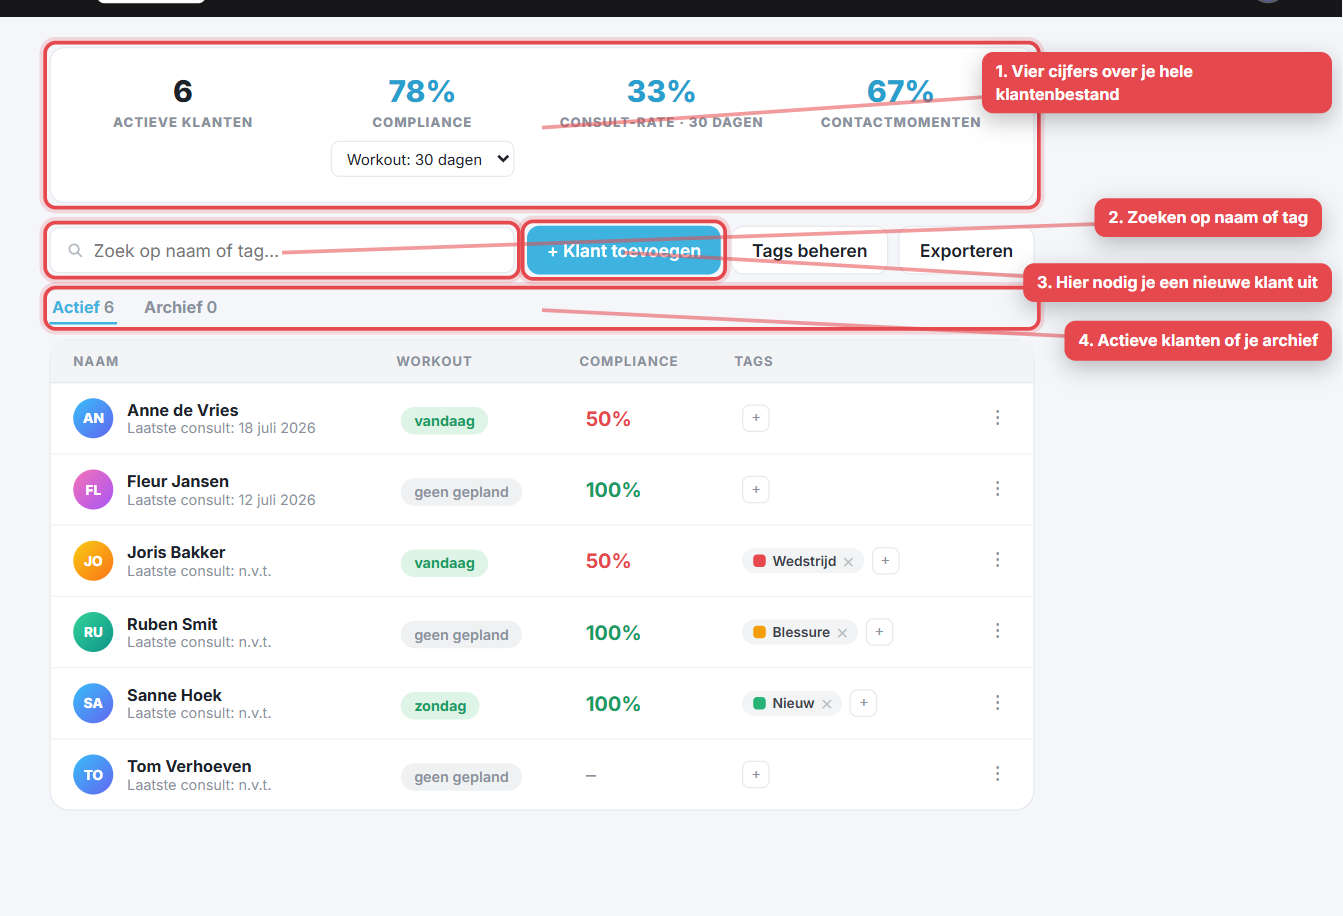
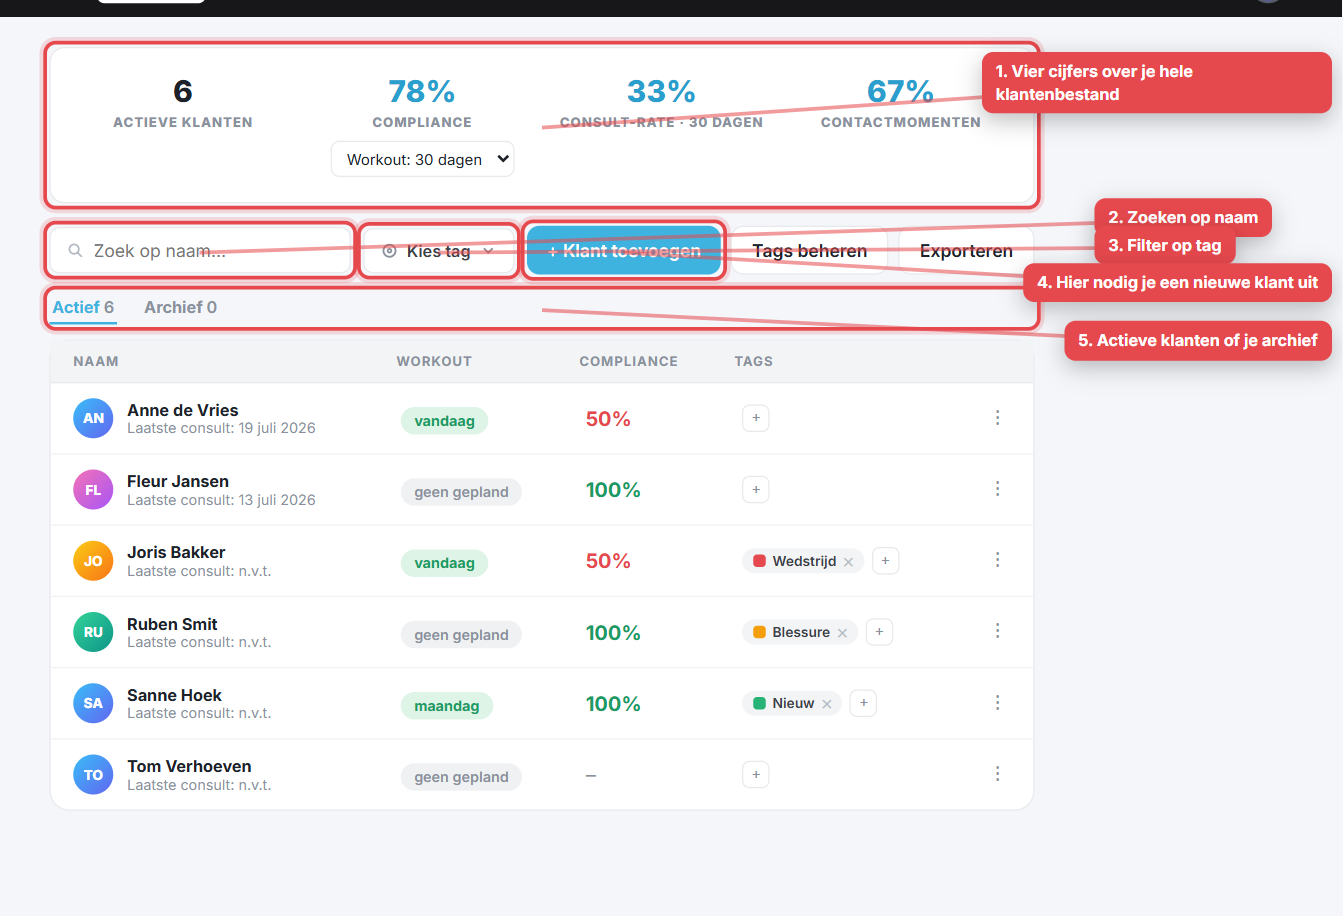
Klanten: zoeken op naam, en een tag-kiezer om op tags te filteren
Het zoekveld gaat nu alleen over de naam (en het mailadres). Ernaast staat
"Kies tag": een uitklaplijst met de tags die er zijn, met een vinkje bij de
tags die aanstaan. Elke gekozen tag komt als chip onder de zoekbalk te
staan en gaat er met het kruisje weer af. Meerdere tags mag: je ziet dan
iedereen die een van die tags heeft, met een teller erachter. Een nieuwe
tag (via de + bij een klant of via Tags beheren) staat meteen in de lijst,
want die komt elke keer uit KDATA.alleTags.

Het afstrepen tijdens programmeren werkt zoals eerst, zodra er minstens
een tag aanstaat. Handleiding-tekst en de screenshot van de klantenlijst
zijn meegegaan.

diff --git a/app/klanten.js b/app/klanten.js
@@ -2,11 +2,21 @@
 // Klanten, Coaches en Bedrijven, plus de uitnodigingsflow (invites).
 // ---------- KLANTEN-pagina (naar het ontwerp) ----------
 let KDATA=null,klantPeriode=30,klantZoek="",klantCoachFilter=null,klantCoachNaam="",klantArchief=false;
-// Tag-filter op de lijst (klik op een tag) + afstreep-lijstje voor het
-// programmeren (verzoek Stefan 22 juli): vink klanten af terwijl je ze
-// programmeert; geldt zolang de pagina open staat.
-let klantTagSel=null,klantAf=new Set();
-function klantTagFilterKies(id){klantTagSel=id||null;if(!id)klantAf.clear();klantenRender();}
+// Tag-filter op de lijst + afstreep-lijstje voor het programmeren (verzoek
+// Stefan 22 juli): vink klanten af terwijl je ze programmeert; geldt zolang de
+// pagina open staat. Sinds 25 juli kun je op meerdere tags tegelijk filteren
+// (verzoek Stefan): kiezen doe je met de tag-kiezer naast het zoekveld, de
+// gekozen tags staan als chips daaronder. Een klant hoort erbij als hij één
+// van de gekozen tags heeft.
+let klantTags=new Set(),klantAf=new Set();
+const klantTagAan=()=>klantTags.size>0;
+function klantTagFilterKies(id){
+  if(!id){klantTags.clear();klantAf.clear();klantenRender();return;}
+  if(klantTags.has(id))klantTags.delete(id);else klantTags.add(id);
+  if(!klantTags.size)klantAf.clear();
+  klantTagDropWeg();klantenRender();
+}
+function klantTagFilterWeg(id){klantTags.delete(id);if(!klantTags.size)klantAf.clear();klantenRender();}
 // Tagkleur: een van de zes vaste kleurnamen óf een vrije hexkleur (#..)
 function tagKleur(c){return /^#/.test(c||"")?c:(TPLKLEUR[c]||TPLKLEUR.blue);}
 function klantAfToggle(pid){if(klantAf.has(pid))klantAf.delete(pid);else klantAf.add(pid);klantenRender();}
@@ -59,19 +69,19 @@ function klantComp(list){
 }
 function klantRijen(){
   const zoek=klantZoek.toLowerCase();
+  // Het zoekveld gaat over de naam (en het mailadres); op tags filter je met de
+  // tag-kiezer ernaast.
   let lijst=klantLijst().filter(p=>{
     if(!zoek)return true;
-    if(naamVan(p).toLowerCase().includes(zoek)||(p.email||"").toLowerCase().includes(zoek))return true;
-    // Ook zoeken op tagnaam (de placeholder belooft het al)
-    return (KDATA.tagsByClient[p.id]||[]).map(id=>tagById(id)).filter(Boolean).some(t=>(t.name||"").toLowerCase().includes(zoek));
+    return naamVan(p).toLowerCase().includes(zoek)||(p.email||"").toLowerCase().includes(zoek);
   }).sort((a,b)=>naamVan(a).localeCompare(naamVan(b)));
-  if(klantTagSel)lijst=lijst.filter(p=>(KDATA.tagsByClient[p.id]||[]).includes(klantTagSel));
+  if(klantTagAan())lijst=lijst.filter(p=>(KDATA.tagsByClient[p.id]||[]).some(id=>klantTags.has(id)));
   // Afgestreepte klanten zakken naar onderen tijdens het programmeren
-  if(klantTagSel)lijst=lijst.slice().sort((a,b)=>(klantAf.has(a.id)?1:0)-(klantAf.has(b.id)?1:0)||naamVan(a).localeCompare(naamVan(b)));
+  if(klantTagAan())lijst=lijst.slice().sort((a,b)=>(klantAf.has(a.id)?1:0)-(klantAf.has(b.id)?1:0)||naamVan(a).localeCompare(naamVan(b)));
   return lijst.map(p=>{
     const wp=klantComp([p]);
-    const af=klantTagSel&&klantAf.has(p.id);
-    const afBtn=klantTagSel?'<button class="afvink'+(af?" aan":"")+'" title="'+(af?"Terugzetten in het lijstje":"Afstrepen: klaar met programmeren")+'" onclick="event.stopPropagation();klantAfToggle(\''+p.id+'\')">'+(af?"✓":"")+'</button>':'';
+    const af=klantTagAan()&&klantAf.has(p.id);
+    const afBtn=klantTagAan()?'<button class="afvink'+(af?" aan":"")+'" title="'+(af?"Terugzetten in het lijstje":"Afstrepen: klaar met programmeren")+'" onclick="event.stopPropagation();klantAfToggle(\''+p.id+'\')">'+(af?"✓":"")+'</button>':'';
     // Label voor klanten die hun uitnodiging nog niet hebben geaccepteerd
     // (account bestaat al, programmeren kan gewoon).
     let pend="";
@@ -107,10 +117,11 @@ function klantenRender(){
     '<div><div class="n acc">'+(crTot==null?'–':crTot+'%')+'</div><div class="l">Consult-rate · 30 dagen</div></div>'+
     '<div><div class="n acc">'+(cmTot==null?'–':cmTot+'%')+'</div><div class="l">Contactmomenten</div></div></div>'+
     '<div style="display:flex;gap:10px;align-items:center;margin-bottom:14px;flex-wrap:wrap">'+
-      '<div class="search2"><svg class="i sm-i"><use href="#i-search"/></svg><input placeholder="Zoek op naam of tag…" value="'+esc(klantZoek)+'" oninput="klantZoekF(this.value)"></div>'+
+      '<div class="search2" style="max-width:360px"><svg class="i sm-i"><use href="#i-search"/></svg><input placeholder="Zoek op naam…" value="'+esc(klantZoek)+'" oninput="klantZoekF(this.value)"></div>'+
+      klantTagKiezerHtml()+
       '<div style="margin-left:auto;display:flex;gap:8px"><button class="btn" onclick="openInvModal(\'lid\')">+ Klant toevoegen</button><button class="btn ghost" onclick="openTagBeheer()">Tags beheren</button><button class="btn ghost" onclick="exportKlanten()">Exporteren</button></div></div>'+
-    '<div class="ctabs"><button class="'+(klantArchief?'':'on')+'" onclick="klantTab(false)">Actief <span style="font-weight:600;color:#8a919c">'+actief.length+'</span></button><button class="'+(klantArchief?'on':'')+'" onclick="klantTab(true)">Archief <span style="font-weight:600;color:#8a919c">'+archief.length+'</span></button></div>'+
     klantTagBanner()+
+    '<div class="ctabs"><button class="'+(klantArchief?'':'on')+'" onclick="klantTab(false)">Actief <span style="font-weight:600;color:#8a919c">'+actief.length+'</span></button><button class="'+(klantArchief?'on':'')+'" onclick="klantTab(true)">Archief <span style="font-weight:600;color:#8a919c">'+archief.length+'</span></button></div>'+
     '<div class="card"><div class="thead"><div style="flex:2.2">Naam</div><div style="flex:1.2">Workout</div><div style="flex:1">Compliance</div><div style="flex:1.6">Tags</div><div style="width:30px"></div></div>'+
     '<div id="klantrows">'+(klantRijen()||'<div class="trow"><span class="muted">'+(klantArchief?'Geen gearchiveerde klanten.':'Nog geen klanten gekoppeld.')+'</span></div>')+'</div></div>';
 }
@@ -213,21 +224,53 @@ async function doExport(){
 function tagById(id){return (KDATA.alleTags||[]).find(t=>t.id===id);}
 // Actieve tag-filter als balkje boven de lijst: tag met kruisje (uitzetten)
 // en de afstreep-teller voor het programmeren.
+// De tag-kiezer naast het zoekveld: uitklaplijst met de tags die er zijn.
+// Nieuwe tags (via de + bij een klant of via Tags beheren) staan er meteen
+// tussen, want de lijst komt elke keer uit KDATA.alleTags.
+function klantTagKiezerHtml(){
+  const n=klantTags.size;
+  return '<div class="tagkies">'+
+    '<button class="tagkiesbtn'+(n?" aan":"")+'" onclick="klantTagDropToggle(event)">'+
+      '<svg class="i sm-i"><use href="#i-target"/></svg> '+(n?n+(n===1?" tag":" tags"):"Kies tag")+
+      '<svg class="i sm-i"><use href="#i-chev"/></svg></button></div>';
+}
+function klantTagDropWeg(){document.querySelectorAll(".tagkies .tagdrop").forEach(x=>x.remove());}
+function klantTagDropToggle(ev){
+  ev.stopPropagation();
+  const wrap=ev.target.closest(".tagkies");if(!wrap)return;
+  const bestond=wrap.querySelector(".tagdrop");
+  document.querySelectorAll(".tagdrop").forEach(x=>x.remove());
+  if(bestond)return;
+  const d=document.createElement("div");d.className="tagdrop";
+  d.innerHTML='<div class="hd">Filter op tag</div>'+
+    ((KDATA.alleTags||[]).map(t=>'<button class="tagopt" onclick="event.stopPropagation();klantTagFilterKies(\''+t.id+'\')">'+
+      '<span class="kdot" style="background:'+(tagKleur(t.color))+'"></span><span style="flex:1">'+esc(t.name)+'</span>'+
+      (klantTags.has(t.id)?'<span class="vk">✓</span>':'')+'</button>').join("")
+      ||'<div class="leeg">Nog geen tags. Maak er een via de + achter een klant of via Tags beheren.</div>')+
+    (klantTags.size?'<button class="tagopt" style="color:#e5484d" onclick="event.stopPropagation();klantTagFilterKies(null)">Filter wissen</button>':'');
+  wrap.appendChild(d);
+}
+document.addEventListener("click",e=>{if(!e.target.closest(".tagkies"))klantTagDropWeg();});
+
+// De gekozen tags als chips onder de zoekbalk, met een kruisje per tag,
+// plus de afstreep-teller voor het programmeren.
 function klantTagBanner(){
-  if(!klantTagSel)return "";
-  const t=tagById(klantTagSel);
-  if(!t){klantTagSel=null;return "";}
-  const inFilter=klantLijst().filter(p=>(KDATA.tagsByClient[p.id]||[]).includes(klantTagSel));
+  // Tags die intussen verwijderd zijn stil laten vallen
+  [...klantTags].forEach(id=>{if(!tagById(id))klantTags.delete(id);});
+  if(!klantTags.size)return "";
+  const gekozen=[...klantTags].map(id=>tagById(id)).filter(Boolean);
+  const inFilter=klantLijst().filter(p=>(KDATA.tagsByClient[p.id]||[]).some(id=>klantTags.has(id)));
   const afN=inFilter.filter(p=>klantAf.has(p.id)).length;
-  return '<div style="display:flex;align-items:center;gap:12px;margin:0 0 10px;flex-wrap:wrap">'+
-    '<span class="ktag" style="font-size:12px;padding:5px 12px"><span class="kdot" style="background:'+(tagKleur(t.color))+'"></span>'+esc(t.name)+' <span class="x" title="Filter uitzetten" onclick="klantTagFilterKies(null)">✕</span></span>'+
-    '<span class="sm muted">'+inFilter.length+(inFilter.length===1?" klant":" klanten")+' · '+afN+' afgestreept</span>'+
+  const chips=gekozen.map(t=>'<span class="ktag" style="font-size:12px;padding:5px 12px"><span class="kdot" style="background:'+(tagKleur(t.color))+'"></span>'+esc(t.name)+' <span class="x" title="Deze tag uit het filter halen" onclick="klantTagFilterWeg(\''+t.id+'\')">✕</span></span>').join("");
+  return '<div style="display:flex;align-items:center;gap:10px;margin:0 0 10px;flex-wrap:wrap">'+chips+
+    '<span class="sm muted">'+inFilter.length+(inFilter.length===1?" klant":" klanten")+(gekozen.length>1?" met een van deze tags":"")+' · '+afN+' afgestreept</span>'+
     (afN?'<a style="color:var(--accent);cursor:pointer;font-weight:700;font-size:12px" onclick="klantAfReset()">Afstrepen wissen</a>':'')+
+    (gekozen.length>1?'<a style="color:#8a919c;cursor:pointer;font-weight:700;font-size:12px" onclick="klantTagFilterKies(null)">Alles wissen</a>':'')+
   '</div>';
 }
 function klantTagCel(p){
   const chips=(KDATA.tagsByClient[p.id]||[]).map(id=>tagById(id)).filter(Boolean)
-    .map(t=>'<span class="ktag'+(klantTagSel===t.id?" aan":"")+'"><span style="cursor:pointer;display:inline-flex;align-items:center;gap:5px" title="Filter de lijst op deze tag" onclick="event.stopPropagation();klantTagFilterKies(\''+t.id+'\')"><span class="kdot" style="background:'+(tagKleur(t.color))+'"></span>'+esc(t.name)+'</span> <span class="x" title="Tag weghalen bij deze klant" onclick="event.stopPropagation();tagToggleKlant(\''+p.id+'\',\''+t.id+'\')">✕</span></span>').join("");
+    .map(t=>'<span class="ktag'+(klantTags.has(t.id)?" aan":"")+'"><span style="cursor:pointer;display:inline-flex;align-items:center;gap:5px" title="Filter de lijst op deze tag" onclick="event.stopPropagation();klantTagFilterKies(\''+t.id+'\')"><span class="kdot" style="background:'+(tagKleur(t.color))+'"></span>'+esc(t.name)+'</span> <span class="x" title="Tag weghalen bij deze klant" onclick="event.stopPropagation();tagToggleKlant(\''+p.id+'\',\''+t.id+'\')">✕</span></span>').join("");
   return '<div class="ktagcel">'+chips+'<button class="plusbtn" title="Tag toevoegen" onclick="event.stopPropagation();openTagPicker(event,\''+p.id+'\')">+</button></div>';
 }
 function openTagPicker(ev,clientId){

diff --git a/app/help.js b/app/help.js
@@ -41,13 +41,13 @@ const HELP_HOOFDSTUKKEN=[
     stappen:[
       {titel:"De klantenlijst",
        img:"img/help/klanten-01-overzicht.png",
-       tekst:"Bovenin staan vier cijfers over je hele klantenbestand: hoeveel actieve klanten je hebt, de gemiddelde compliance (met een keuzelijst voor de periode), de consult-rate over 30 dagen en hoeveel klanten je deze week gesproken hebt. Daaronder het zoekveld en de knoppen. In de tabel zie je per klant zijn eerstvolgende of gemiste workout, zijn compliance en zijn tags. Klik op een rij om de klant te openen."},
+       tekst:"1 vier cijfers over je hele klantenbestand: hoeveel actieve klanten je hebt, de gemiddelde compliance (met een keuzelijst voor de periode), de consult-rate over 30 dagen en hoeveel klanten je deze week gesproken hebt. 2 het zoekveld gaat over de naam. 3 met Kies tag filter je de lijst op een of meer tags. 4 hier nodig je een nieuwe klant uit. 5 schakel tussen je actieve klanten en je archief. In de tabel staat per klant zijn eerstvolgende of gemiste workout, zijn compliance en zijn tags; klik op een rij om hem te openen."},
       {titel:"Een klant uitnodigen",
        img:"img/help/klanten-02-toevoegen.png",
        tekst:"Klik op + Klant toevoegen en vul naam en e-mailadres in. Kies de coach en of het een betalende 1-op-1 klant is of een gratis blog-lid. Als je op Uitnodiging aanmaken klikt, wordt het account meteen aangemaakt en krijgt je klant een mail waarin hij alleen nog een wachtwoord kiest. Hij staat direct in je lijst met het label Uitnodiging open, dus je kunt al voor hem programmeren."},
       {titel:"Werken met tags",
        img:"img/help/klanten-03-tags.png",
-       tekst:"Tags zijn labels die je zelf maakt, bijvoorbeeld Wedstrijd, Blessure of Nieuw. Klik op de + achter een klant en vink een tag aan of uit. Onderin het venstertje maak je een nieuwe tag met een eigen kleur. Klik je op een tag in de lijst, dan filtert de lijst daarop en kun je die groep afvinken terwijl je programmeert. Met Tags beheren hernoem je tags of gooi je ze weg."},
+       tekst:"Tags zijn labels die je zelf maakt, bijvoorbeeld Wedstrijd, Blessure of Maandag. Klik op de + achter een klant en vink een tag aan of uit. Onderin het venstertje maak je een nieuwe tag met een eigen kleur; die staat daarna meteen in de tag-kiezer bovenaan. Filteren doe je met Kies tag naast het zoekveld: elke tag die je aanvinkt komt eronder als chip te staan en die haal je met het kruisje weer weg. Kies je meerdere tags, dan zie je iedereen die één van die tags heeft. Zolang er een tag aanstaat, krijgt elke rij een rondje om af te strepen terwijl je programmeert. Met Tags beheren hernoem je tags, geef je ze een andere kleur of gooi je ze weg."},
       {titel:"Het menu achter een klant",
        img:"img/help/klanten-04-menu.png",
        tekst:"De drie puntjes achter elke rij openen een menu: profiel bewerken, het intakeformulier openen, een bericht sturen, een wachtwoordlink sturen, de klant overzetten naar een andere coach, of archiveren. Archiveren haalt de klant uit alle lijsten en tellingen, maar bewaart alles. Via de tab Archief kun je hem terughalen."},

diff --git a/styles.css b/styles.css
@@ -377,6 +377,13 @@ h2{font-size:20px;margin-bottom:4px}h3{font-size:15px;margin:18px 0 10px}
 .ktag .x{color:#b3b9c2;cursor:pointer;font-size:9px}
 .ktag .x:hover{color:#e5484d}
 .kdot{width:10px;height:10px;border-radius:3px;display:inline-block;flex:none}
+/* Tag-kiezer naast het zoekveld op de Klanten-pagina */
+.tagkies{position:relative}
+.tagkiesbtn{display:inline-flex;align-items:center;gap:7px;background:#fff;border:1px solid #e7e9ec;border-radius:8px;padding:9px 13px;font-size:13px;font-weight:600;color:#3a4048;cursor:pointer;font-family:inherit;white-space:nowrap}
+.tagkiesbtn:hover{border-color:#cfd4da}
+.tagkiesbtn .i{color:#8a919c;width:14px;height:14px}
+.tagkiesbtn.aan{border-color:var(--accent);color:var(--accent)}
+.tagkiesbtn.aan .i{color:var(--accent)}
 .tagdrop{position:absolute;top:100%;left:0;z-index:70;background:#fff;border:1px solid var(--line);border-radius:12px;box-shadow:0 16px 44px rgba(15,18,22,.16);width:224px;padding:6px;margin-top:5px}
 .tagdrop .hd{font-size:10px;font-weight:800;letter-spacing:.6px;text-transform:uppercase;color:#8a919c;padding:4px 8px}
 .tagdrop .tagopt{display:flex;align-items:center;gap:8px;width:100%;text-align:left;background:none;border:none;padding:7px 8px;border-radius:7px;font-size:12.5px;cursor:pointer;font-family:inherit;color:var(--txt)}
